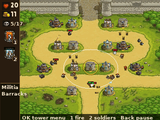
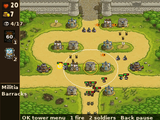
Kingdom Rush: README and screenshot with the guards and graveyards

diff --git a/games/kingdomrush/README.md b/games/kingdomrush/README.md
@@ -22,7 +22,7 @@
 
 ## Highlights
 
-* **The whole free campaign:** Southport to the Dark Tower, with the game's own paths, waves and story, and Vez'nan at the end.
+* **The whole free campaign:** Southport to the Dark Tower, with the game's own paths, waves and story, the Citadel's imperial guards, the graveyards where the dead rise again, and Vez'nan at the end.
 * **Heroic and Iron challenges** for every stage: 3 stars in the Campaign open them.
 * **Every tower:** archers, barracks, mages and bombards to level 3, then the eight special towers (Rangers Hideout, Musketeer Garrison, Holy Order, Barbarian Hall, Arcane Wizard, Sorcerer Mage, Big Bertha, Tesla x104) with all their abilities.
 * **Every enemy and boss:** 30-odd kinds, from goblins and wulves to dark knights, demons and necromancers, the Juggernaut, J.T. and Vez'nan.
@@ -72,7 +72,7 @@ On the map: the arrows pick a stage, OK opens it, Left and Right pick the mode, 
 * **New enemies** show their note once, the first time they come, where the original put an icon to click.
 * **No sound:** the calculator has no speaker.
 * **The pictures are the game's,** at 0.4 of their size: the 700 by 600 battlefield fills 280 by 240 pixels, beside a bar with your lives, gold and spells.
-* **Left out:** the three premium stages, heroes, achievements and the encyclopedia.
+* **Left out:** the three premium stages, heroes, achievements and the encyclopedia, and three stages' buildings: the elves' hall in Silveroak Forest, the Sasquatch's cave in Icewind Pass and the Sunray Tower in Stormcloud Temple.
 
 ## Credits
 
